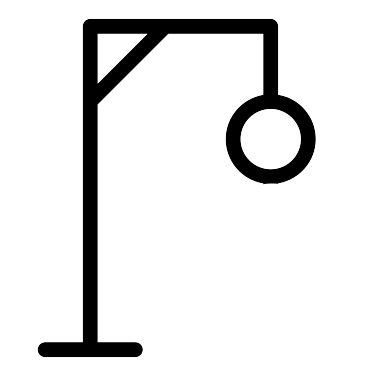
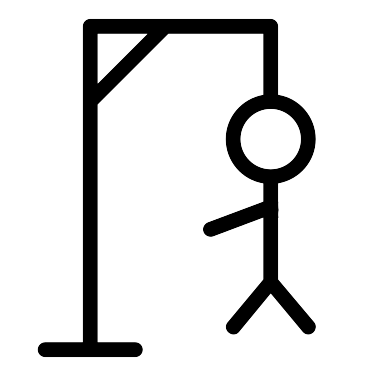
logica finalizada

Changed region(s): [[0.5266, 0.4681, 0.8484, 0.9069]]

diff --git a/js/detecta-letra.js b/js/detecta-letra.js
@@ -1,5 +1,6 @@
 var body = document.querySelector('.app');
 
+var tries = 0;
 
 body.addEventListener('keydown', function(event) {
     const key = event.key;
@@ -8,18 +9,50 @@ body.addEventListener('keydown', function(event) {
         
         for(var i = 0; i < letterCount; i++) {
           
-            if(list[random].charAt(i) == key) {
+            if(list[random].charAt(i) == key && tries < 6) {
                 
                 var letter = document.querySelector('.letter' + i)
                 letter.value = key;
-            }
-
-            console.log(list[random].charAt(i));            
+            }              
         }
-    }else{
+    }else {
+        var img;
         
-    }
-        
-    
-})
+        tries++;
 
+        if(tries == 1) {
+            img = document.querySelector('#hangman6');
+            img.classList.add('img__hidden');
+            img = document.querySelector('#hangman5');
+            img.classList.remove('img__hidden');
+        }else if(tries == 2) {
+            img = document.querySelector('#hangman5');
+            img.classList.add('img__hidden');
+            img = document.querySelector('#hangman4');
+            img.classList.remove('img__hidden');
+        }else if(tries == 3) {
+            img = document.querySelector('#hangman4');
+            img.classList.add('img__hidden');
+            img = document.querySelector('#hangman3');
+            img.classList.remove('img__hidden');
+        }else if(tries == 4) {
+            img = document.querySelector('#hangman3');
+            img.classList.add('img__hidden');
+            img = document.querySelector('#hangman2');
+            img.classList.remove('img__hidden');
+        }else if(tries == 5) {
+            img = document.querySelector('#hangman2');
+            img.classList.add('img__hidden');
+            img = document.querySelector('#hangman1');
+            img.classList.remove('img__hidden');
+        }else if(tries == 6) {
+            img = document.querySelector('#hangman1');
+            img.classList.add('img__hidden');
+            img = document.querySelector('#hangman0');
+            img.classList.remove('img__hidden');
+
+            document.querySelectorAll('.letter').readOnly = true;
+            
+        }
+    }
+})

diff --git a/index.html b/index.html
@@ -12,7 +12,14 @@
         <main>
             <h1>Hangman</h1>
             
-            <img src="img/hangman.png">
+            <img id="hangman6" src="img/hangman 6.png">
+            <img id="hangman5" class="img__hidden" src="img/hangman 5.png">
+            <img id="hangman4" class="img__hidden" src="img/hangman 4.png">
+            <img id="hangman3" class="img__hidden" src="img/hangman 3.png">
+            <img id="hangman2" class="img__hidden" src="img/hangman 2.png">
+            <img id="hangman1" class="img__hidden" src="img/hangman 1.png">
+            <img id="hangman0" class="img__hidden" src="img/hangman 0.png">
+
             <button id="firstGame" onclick="newGame()">New Game</button>
             <button onclick="addNewWord()">Add a new word</button>
             <input id="addWord">

diff --git a/js/novo-jogo.js b/js/novo-jogo.js
@@ -17,10 +17,11 @@ function newGame() {
 
     // Create inputs
     for(var inputAmount = 0; inputAmount < letterCount; inputAmount++) {
-        var input = document.createElement("input");
+        let input = document.createElement("input");
         input.type = "text";
         input.maxLength = "1";  
         input.className = "letter" + inputAmount;
+        input.classList.add('letter');
         container.appendChild(input);
     }
 

diff --git a/css/style.css b/css/style.css
@@ -1,3 +1,3 @@
-canvas {
-    margin-left: 10px;
+.img__hidden {
+    display: none;
 }
